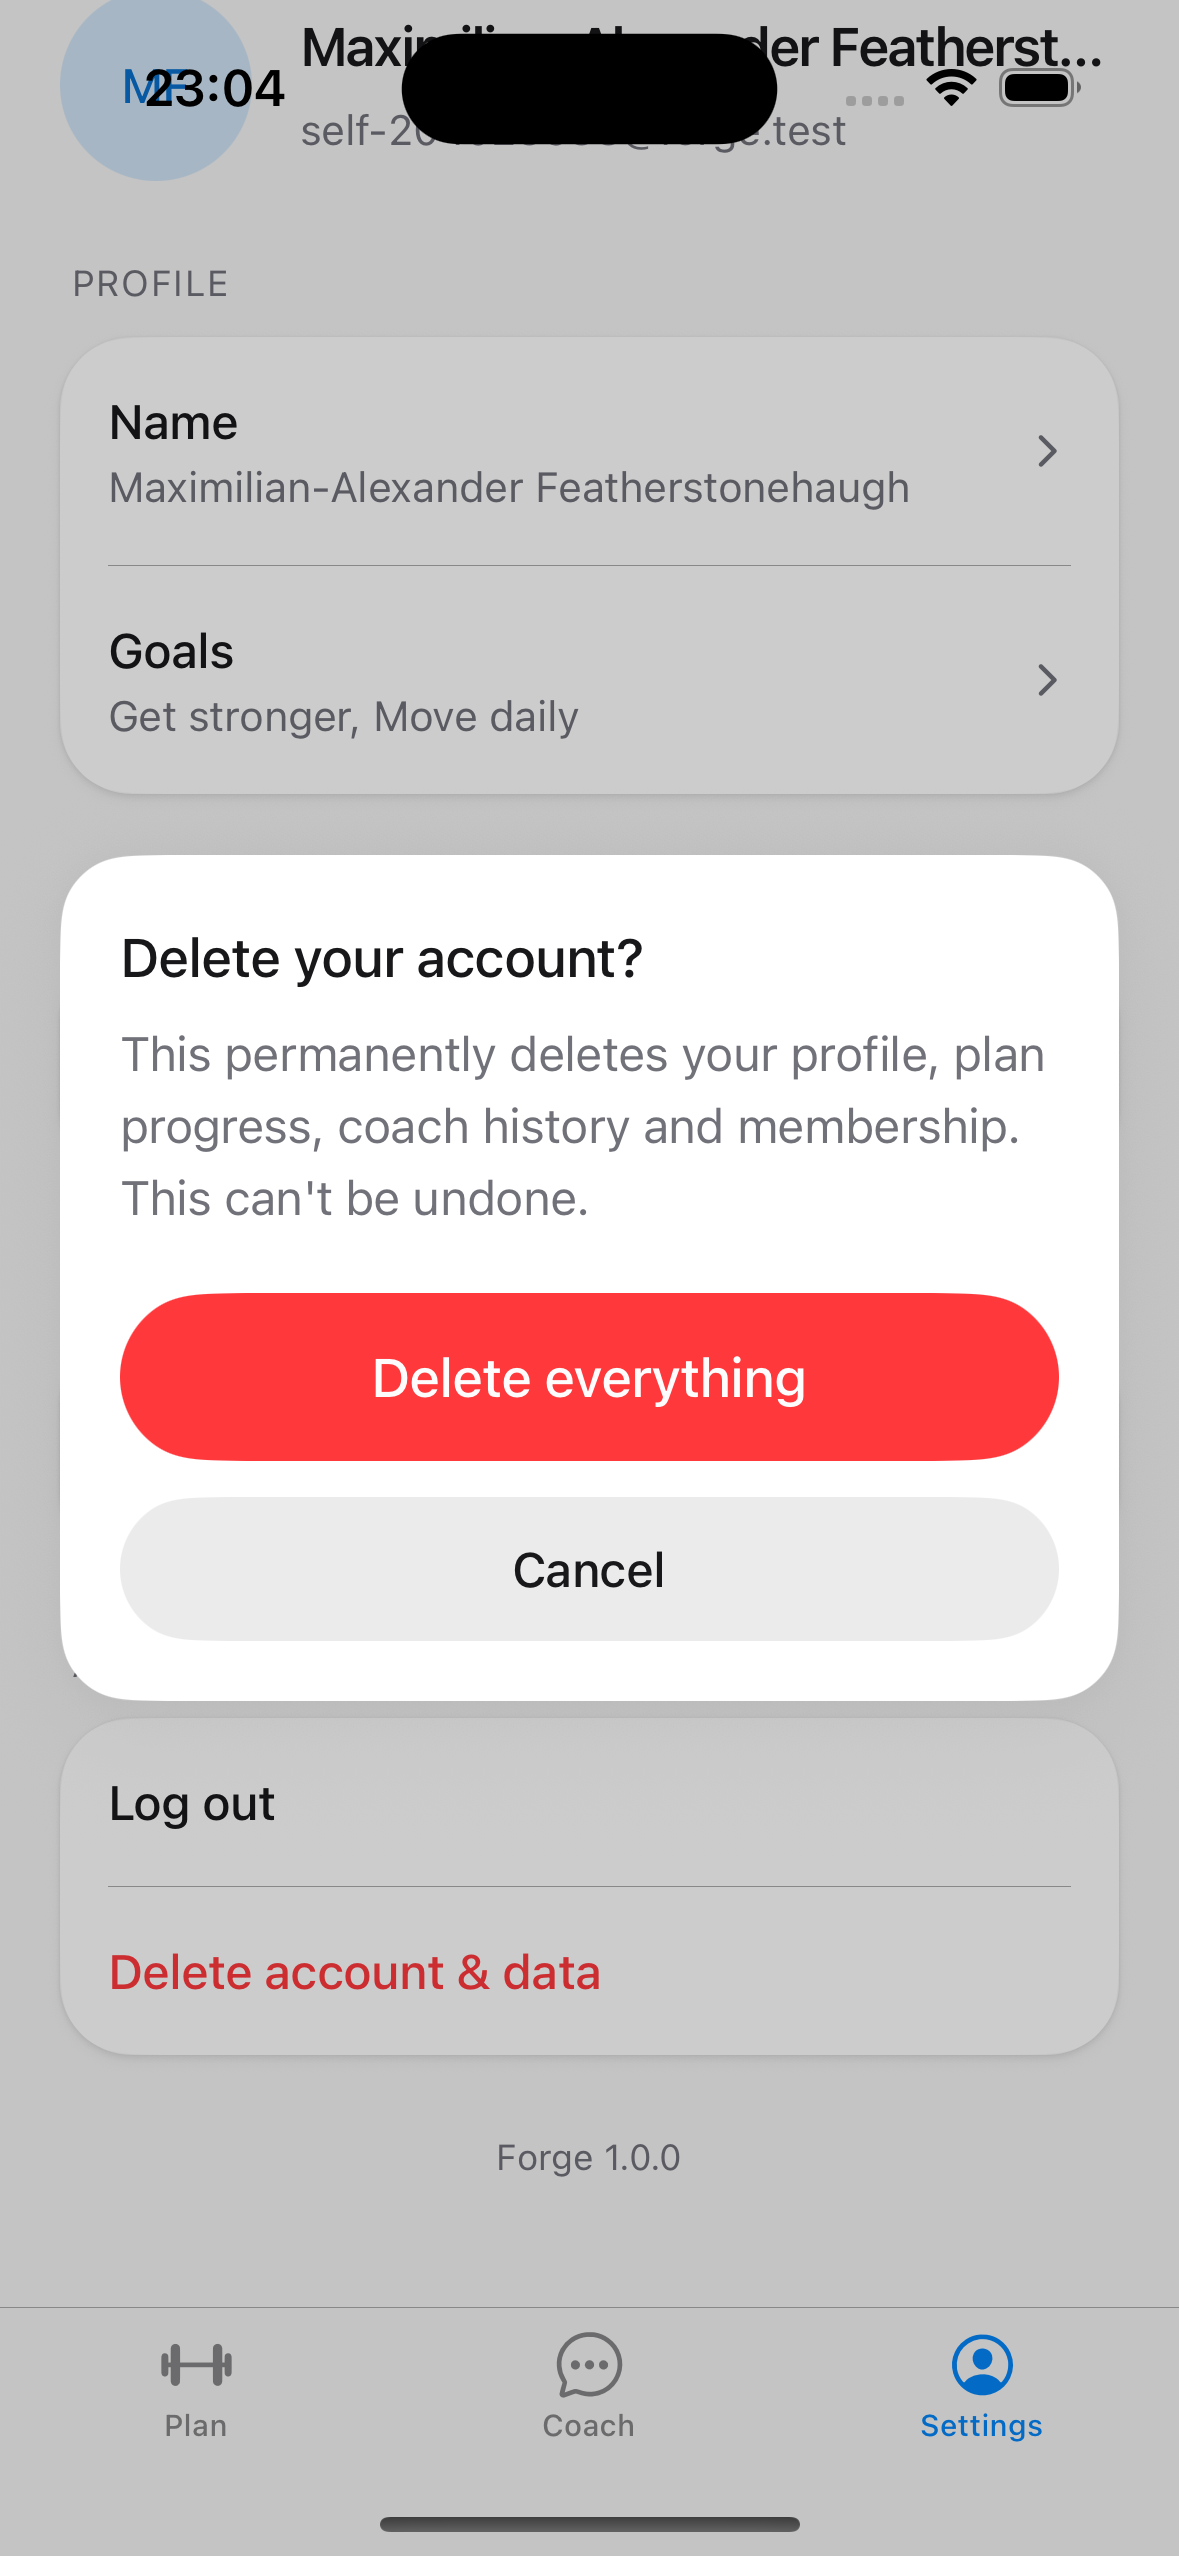
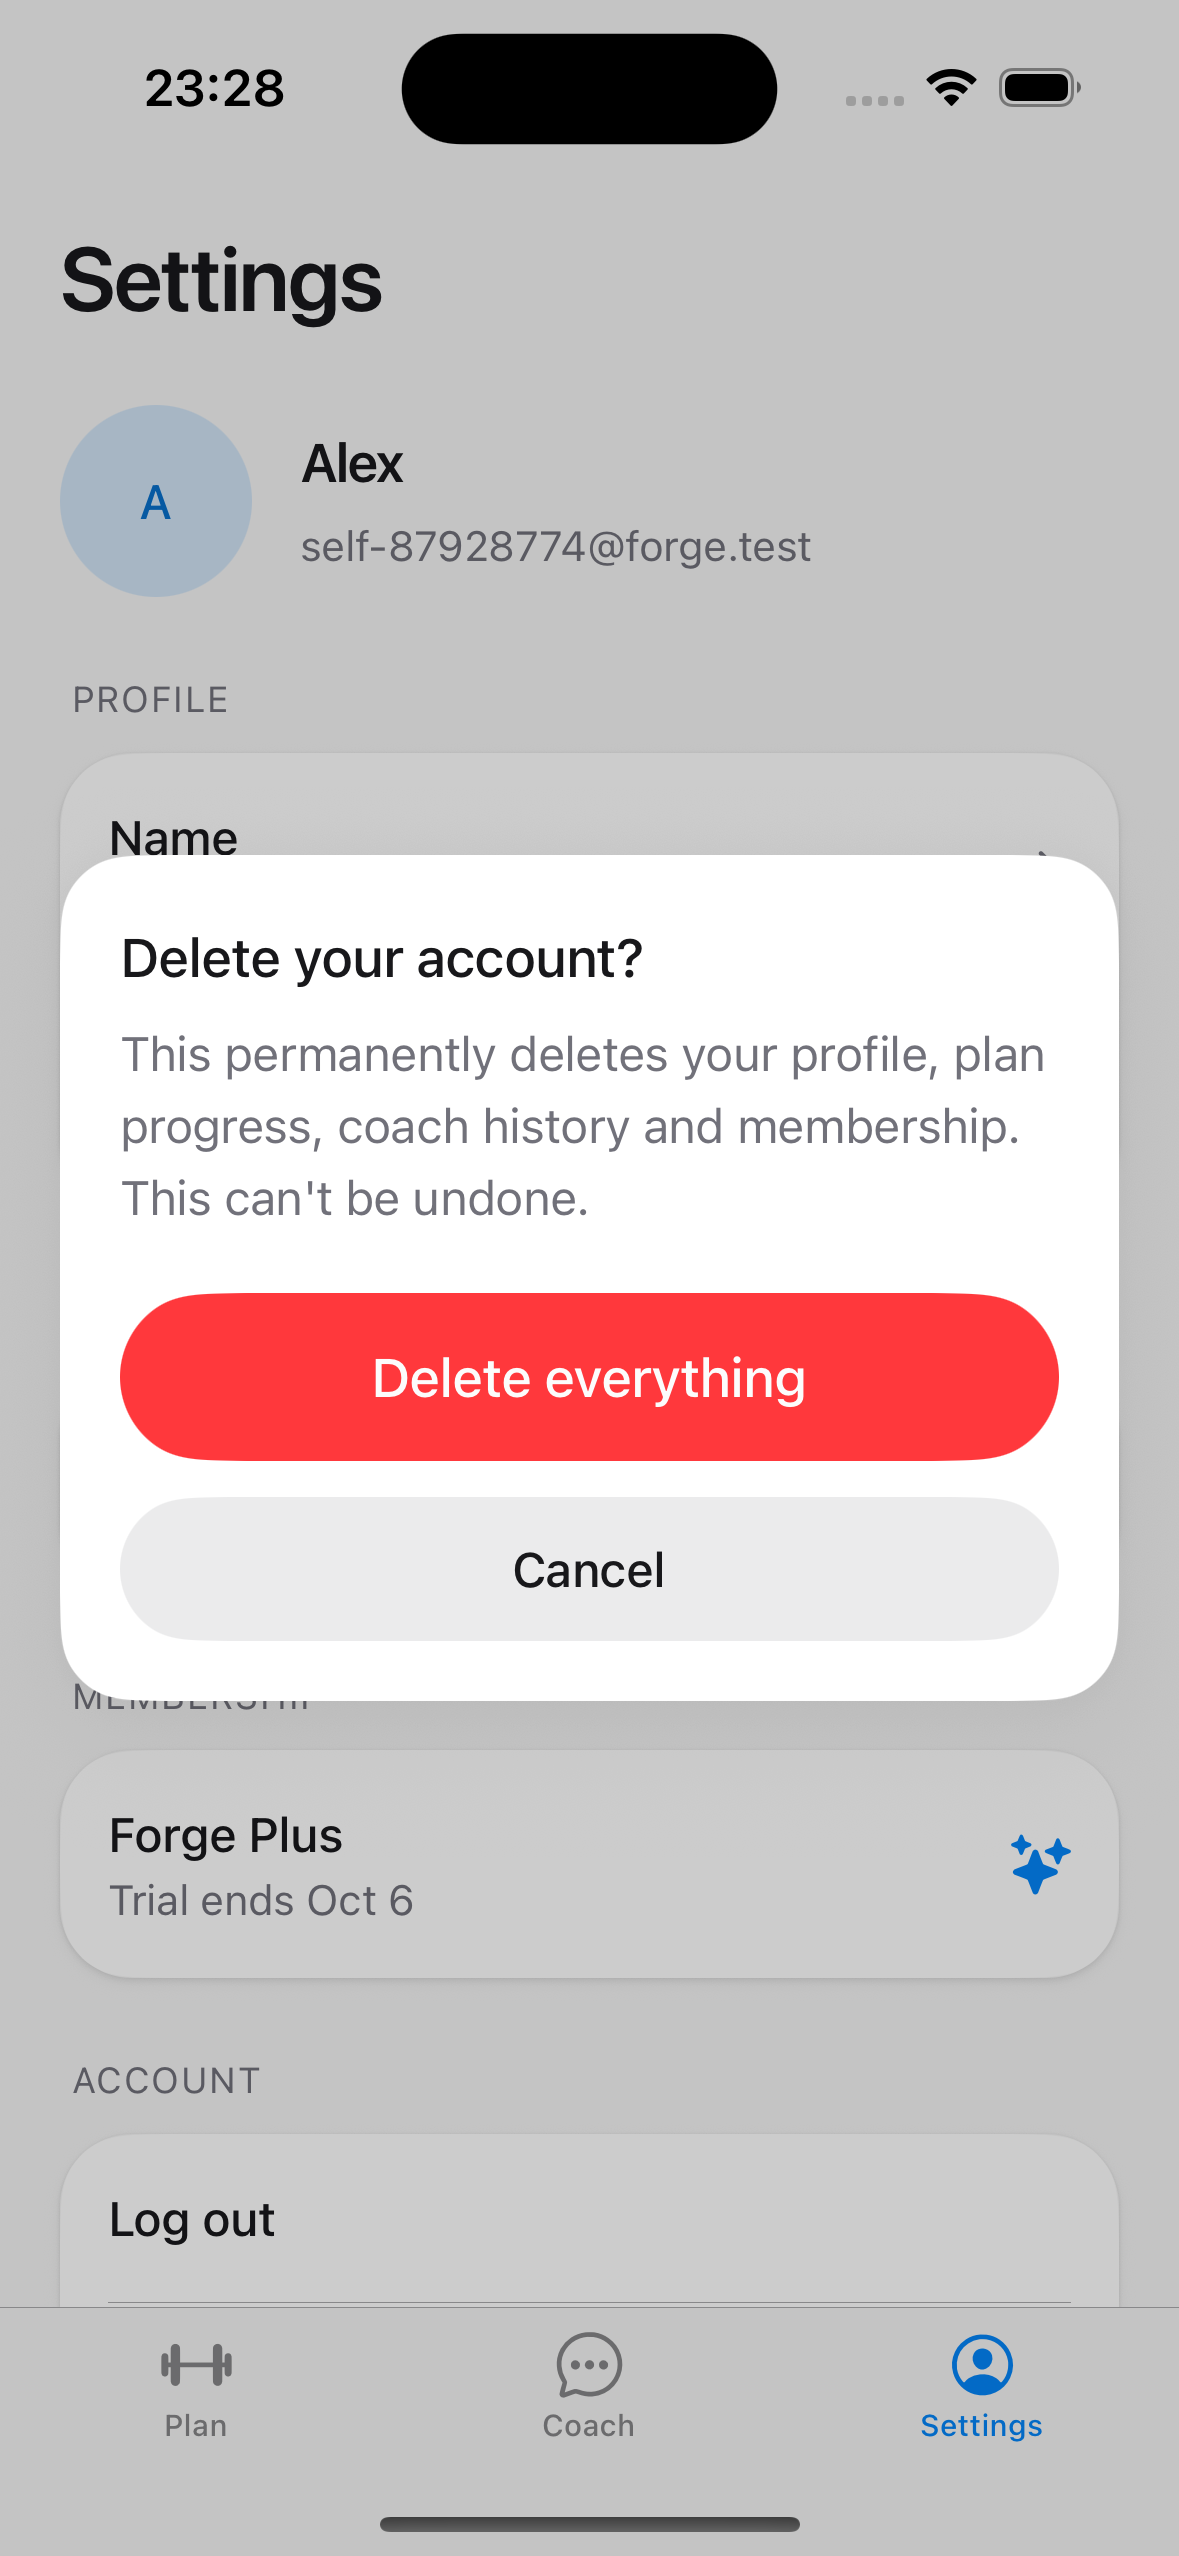
fix(mobile): settings shows membership only once it is known

diff --git a/apps/mobile/src/app/(tabs)/settings.tsx b/apps/mobile/src/app/(tabs)/settings.tsx
@@ -1,5 +1,5 @@
 import { router } from 'expo-router';
-import { Avatar, ListGroup, Separator, Typography } from 'heroui-native';
+import { Avatar, ListGroup, Separator, SkeletonGroup, Typography } from 'heroui-native';
 import { useState } from 'react';
 import { ScrollView, View } from 'react-native';
 import { Icon } from '@/components/icon';
@@ -19,7 +19,6 @@ export default function SettingsScreen() {
 
   if (!me.data) return <SettingsSkeleton />;
   const user = me.data;
-  const plus = entitlement.data?.tier === 'plus' ? entitlement.data : null;
 
   return (
     <>
@@ -45,7 +44,7 @@ export default function SettingsScreen() {
 
         <Section title="Profile">
           <ListGroup>
-            <ListGroup.Item onPress={() => router.push('/profile')}>
+            <ListGroup.Item accessibilityRole="button" onPress={() => router.push('/profile')}>
               <ListGroup.ItemContent>
                 <ListGroup.ItemTitle>Name</ListGroup.ItemTitle>
                 <ListGroup.ItemDescription numberOfLines={1}>
@@ -55,7 +54,7 @@ export default function SettingsScreen() {
               <ListGroup.ItemSuffix />
             </ListGroup.Item>
             <Separator className="mx-4" />
-            <ListGroup.Item onPress={() => router.push('/profile')}>
+            <ListGroup.Item accessibilityRole="button" onPress={() => router.push('/profile')}>
               <ListGroup.ItemContent>
                 <ListGroup.ItemTitle>Goals</ListGroup.ItemTitle>
                 <ListGroup.ItemDescription numberOfLines={1}>
@@ -69,7 +68,7 @@ export default function SettingsScreen() {
 
         <Section title="Privacy">
           <ListGroup>
-            <ListGroup.Item disabled>
+            <ListGroup.Item>
               <ListGroup.ItemContent>
                 <ListGroup.ItemTitle>Data consent</ListGroup.ItemTitle>
                 <ListGroup.ItemDescription>
@@ -87,41 +86,19 @@ export default function SettingsScreen() {
 
         <Section title="Membership">
           <ListGroup>
-            {plus ? (
-              <ListGroup.Item disabled>
-                <ListGroup.ItemContent>
-                  <ListGroup.ItemTitle>Forge Plus</ListGroup.ItemTitle>
-                  <ListGroup.ItemDescription>
-                    {plus.trialEndsAt
-                      ? `Trial ends ${formatDate(plus.trialEndsAt, { withYear: false })}`
-                      : 'Active'}
-                  </ListGroup.ItemDescription>
-                </ListGroup.ItemContent>
-                <ListGroup.ItemSuffix>
-                  <Icon name="sparkles" size={20} className="text-accent" />
-                </ListGroup.ItemSuffix>
-              </ListGroup.Item>
-            ) : (
-              <ListGroup.Item onPress={() => router.push('/paywall')}>
-                <ListGroup.ItemContent>
-                  <ListGroup.ItemTitle>Free</ListGroup.ItemTitle>
-                  <ListGroup.ItemDescription>See Forge Plus</ListGroup.ItemDescription>
-                </ListGroup.ItemContent>
-                <ListGroup.ItemSuffix />
-              </ListGroup.Item>
-            )}
+            <MembershipRow entitlement={entitlement} />
           </ListGroup>
         </Section>
 
         <Section title="Account">
           <ListGroup>
-            <ListGroup.Item onPress={() => void signOut()}>
+            <ListGroup.Item accessibilityRole="button" onPress={() => void signOut()}>
               <ListGroup.ItemContent>
                 <ListGroup.ItemTitle>Log out</ListGroup.ItemTitle>
               </ListGroup.ItemContent>
             </ListGroup.Item>
             <Separator className="mx-4" />
-            <ListGroup.Item onPress={() => setIsDeleteOpen(true)}>
+            <ListGroup.Item accessibilityRole="button" onPress={() => setIsDeleteOpen(true)}>
               <ListGroup.ItemContent>
                 <ListGroup.ItemTitle className="text-danger">
                   Delete account & data
@@ -137,6 +114,63 @@ export default function SettingsScreen() {
       </ScrollView>
       <DeleteAccountDialog isOpen={isDeleteOpen} onOpenChange={setIsDeleteOpen} />
     </>
+  );
+}
+
+// The entitlement is neither persisted nor placeholdered, so until it is known the row shows a
+// skeleton (also while a retry is in flight) and, once it has failed, a tap-to-retry row: a Plus
+// user who launches offline must never be shown "Free" and sent to the paywall.
+function MembershipRow({ entitlement }: { entitlement: ReturnType<typeof useEntitlement> }) {
+  if (entitlement.data) {
+    if (entitlement.data.tier === 'plus') {
+      return (
+        <ListGroup.Item>
+          <ListGroup.ItemContent>
+            <ListGroup.ItemTitle>Forge Plus</ListGroup.ItemTitle>
+            <ListGroup.ItemDescription>
+              {entitlement.data.trialEndsAt
+                ? `Trial ends ${formatDate(entitlement.data.trialEndsAt, { withYear: false })}`
+                : 'Active'}
+            </ListGroup.ItemDescription>
+          </ListGroup.ItemContent>
+          <ListGroup.ItemSuffix>
+            <Icon name="sparkles" size={20} className="text-accent" />
+          </ListGroup.ItemSuffix>
+        </ListGroup.Item>
+      );
+    }
+    return (
+      <ListGroup.Item accessibilityRole="button" onPress={() => router.push('/paywall')}>
+        <ListGroup.ItemContent>
+          <ListGroup.ItemTitle>Free</ListGroup.ItemTitle>
+          <ListGroup.ItemDescription>See Forge Plus</ListGroup.ItemDescription>
+        </ListGroup.ItemContent>
+        <ListGroup.ItemSuffix />
+      </ListGroup.Item>
+    );
+  }
+  if (entitlement.isError && !entitlement.isFetching) {
+    return (
+      <ListGroup.Item accessibilityRole="button" onPress={() => void entitlement.refetch()}>
+        <ListGroup.ItemContent>
+          <ListGroup.ItemTitle>{"Couldn't load membership"}</ListGroup.ItemTitle>
+          <ListGroup.ItemDescription>Tap to try again</ListGroup.ItemDescription>
+        </ListGroup.ItemContent>
+        <ListGroup.ItemSuffix>
+          <Icon name="refresh-outline" size={20} className="text-muted" />
+        </ListGroup.ItemSuffix>
+      </ListGroup.Item>
+    );
+  }
+  return (
+    <ListGroup.Item accessible accessibilityLabel="Checking membership">
+      <ListGroup.ItemContent>
+        <SkeletonGroup isLoading isSkeletonOnly className="gap-2">
+          <SkeletonGroup.Item className="h-5 w-1/3 rounded-md" />
+          <SkeletonGroup.Item className="h-4 w-1/2 rounded-md" />
+        </SkeletonGroup>
+      </ListGroup.ItemContent>
+    </ListGroup.Item>
   );
 }
 

diff --git a/apps/mobile/src/features/settings/delete-account-dialog.tsx b/apps/mobile/src/features/settings/delete-account-dialog.tsx
@@ -12,8 +12,13 @@ interface DeleteAccountDialogProps {
 export function DeleteAccountDialog({ isOpen, onOpenChange }: DeleteAccountDialogProps) {
   // On success the hook signs out: the guard leaves Settings and a toast confirms the deletion.
   const deleteAccount = useDeleteAccount();
+  // The dialog stays mounted, so a failed attempt's alert is cleared whenever it closes.
+  const handleOpenChange = (open: boolean) => {
+    if (!open) deleteAccount.reset();
+    onOpenChange(open);
+  };
   return (
-    <Dialog isOpen={isOpen} onOpenChange={onOpenChange}>
+    <Dialog isOpen={isOpen} onOpenChange={handleOpenChange}>
       <Dialog.Portal>
         <Dialog.Overlay />
         <Dialog.Content>
@@ -37,7 +42,11 @@ export function DeleteAccountDialog({ isOpen, onOpenChange }: DeleteAccountDialo
               isPending={deleteAccount.isPending}
               onPress={() => deleteAccount.mutate()}
             />
-            <Button variant="tertiary" onPress={() => onOpenChange(false)}>
+            <Button
+              variant="tertiary"
+              isDisabled={deleteAccount.isPending}
+              onPress={() => handleOpenChange(false)}
+            >
               Cancel
             </Button>
           </View>

diff --git a/docs/decisions/plan-b.md b/docs/decisions/plan-b.md
@@ -29,3 +29,4 @@
 - The chat uses keyboard-controller's `KeyboardAvoidingView behavior="padding"` · it measures its own frame, so the tab bar needs no offsets · none
 - A coach send that times out (15 s) is rolled back and never retried, although the server may still complete the queued POST (observed with a frozen API: "Hello" and its reply were in the history after the thaw) · the contract has no idempotency key, so a client retry could only duplicate the message, and the next history fetch (foreground refetch) shows the server's copy · a user who taps Send again after a timeout can end up with the same message twice
 - Settings keeps the brief's spacing and scrolls on an iPhone 16: at rest the list overflows by ≈ 139 pt (bottom padding included), so "Delete account & data" and the version line need a scroll · fitting them above the tab bar would cost ≈ 55 pt (tighter section gaps plus a smaller avatar) and flatten the hierarchy for the sake of one destructive row, and a settings list that scrolls is what iOS Settings does · the destructive row and the version sit out of sight until the user scrolls
+- The Settings membership row branches on `entitlement.data` first: a skeleton row while the query is pending or a retry is in flight, a tap-to-retry row ("Couldn't load membership") once it has failed, and the Free / Plus rows only from real data · `['entitlement']` is neither persisted nor placeholdered, so a Plus user launching offline would otherwise see "Free — See Forge Plus" and be sent to the paywall · offline, the row stays a skeleton for ≈ 48 s (three 15 s timeouts plus backoff) before the retry row appears
